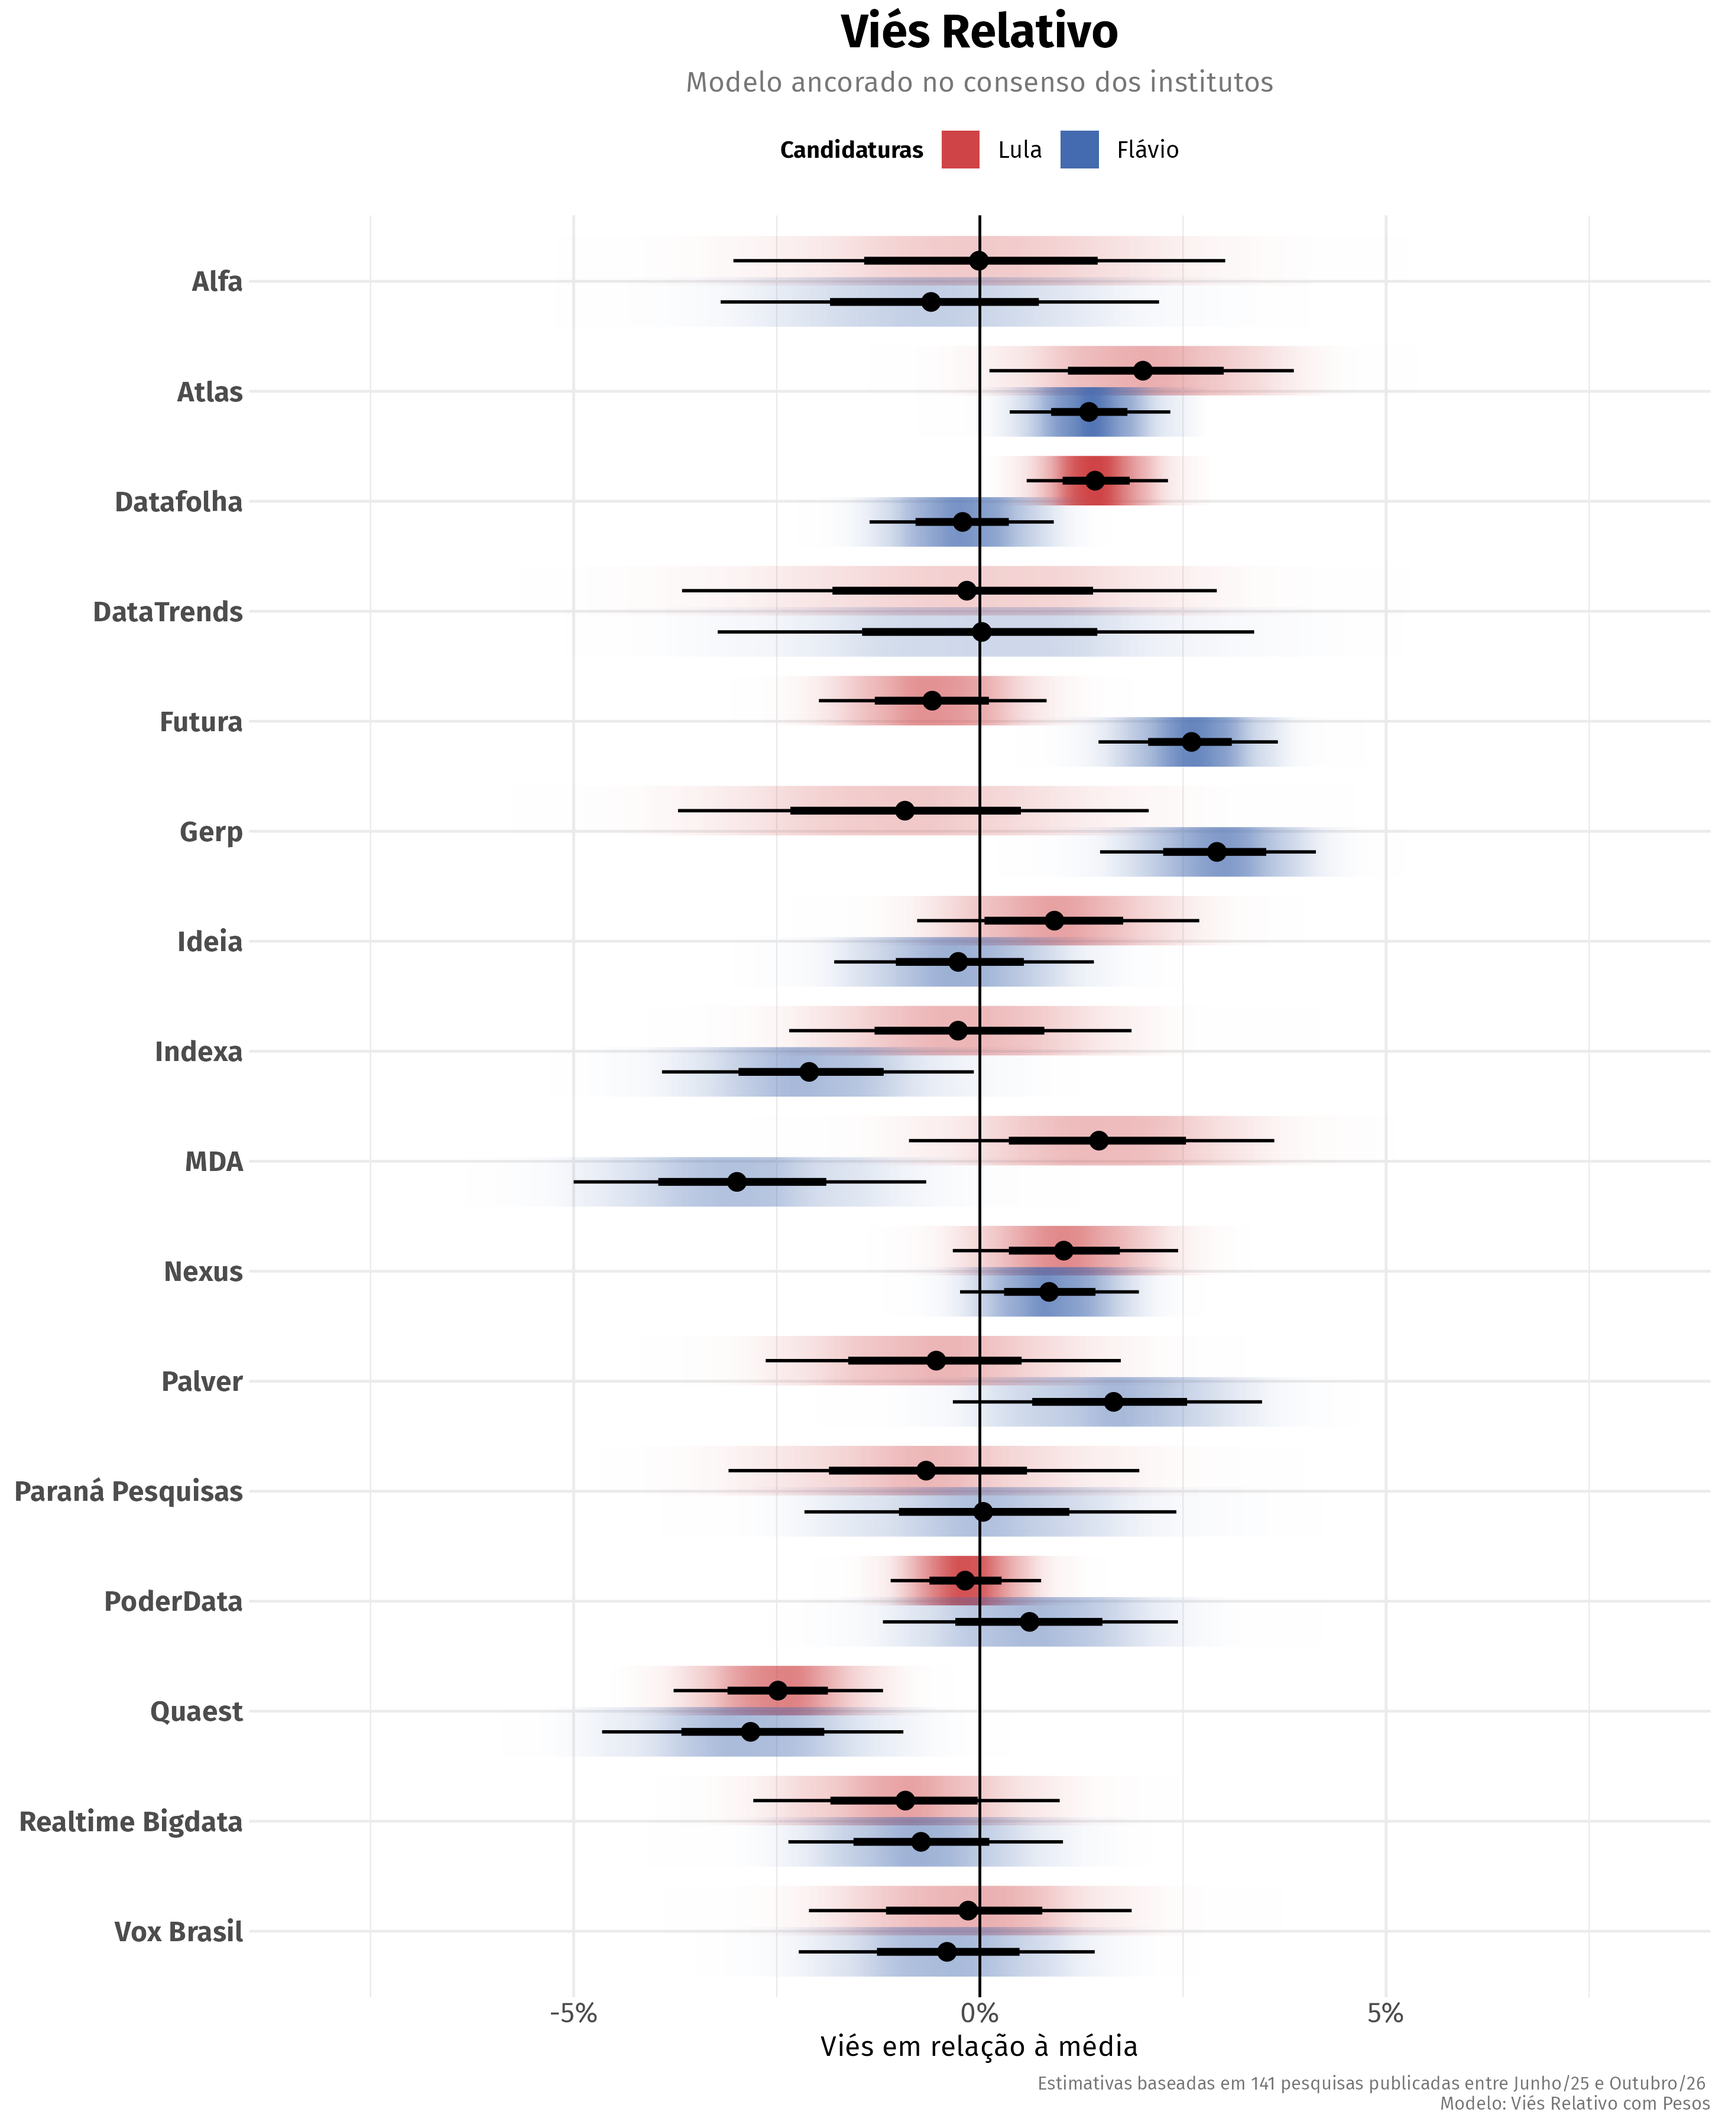
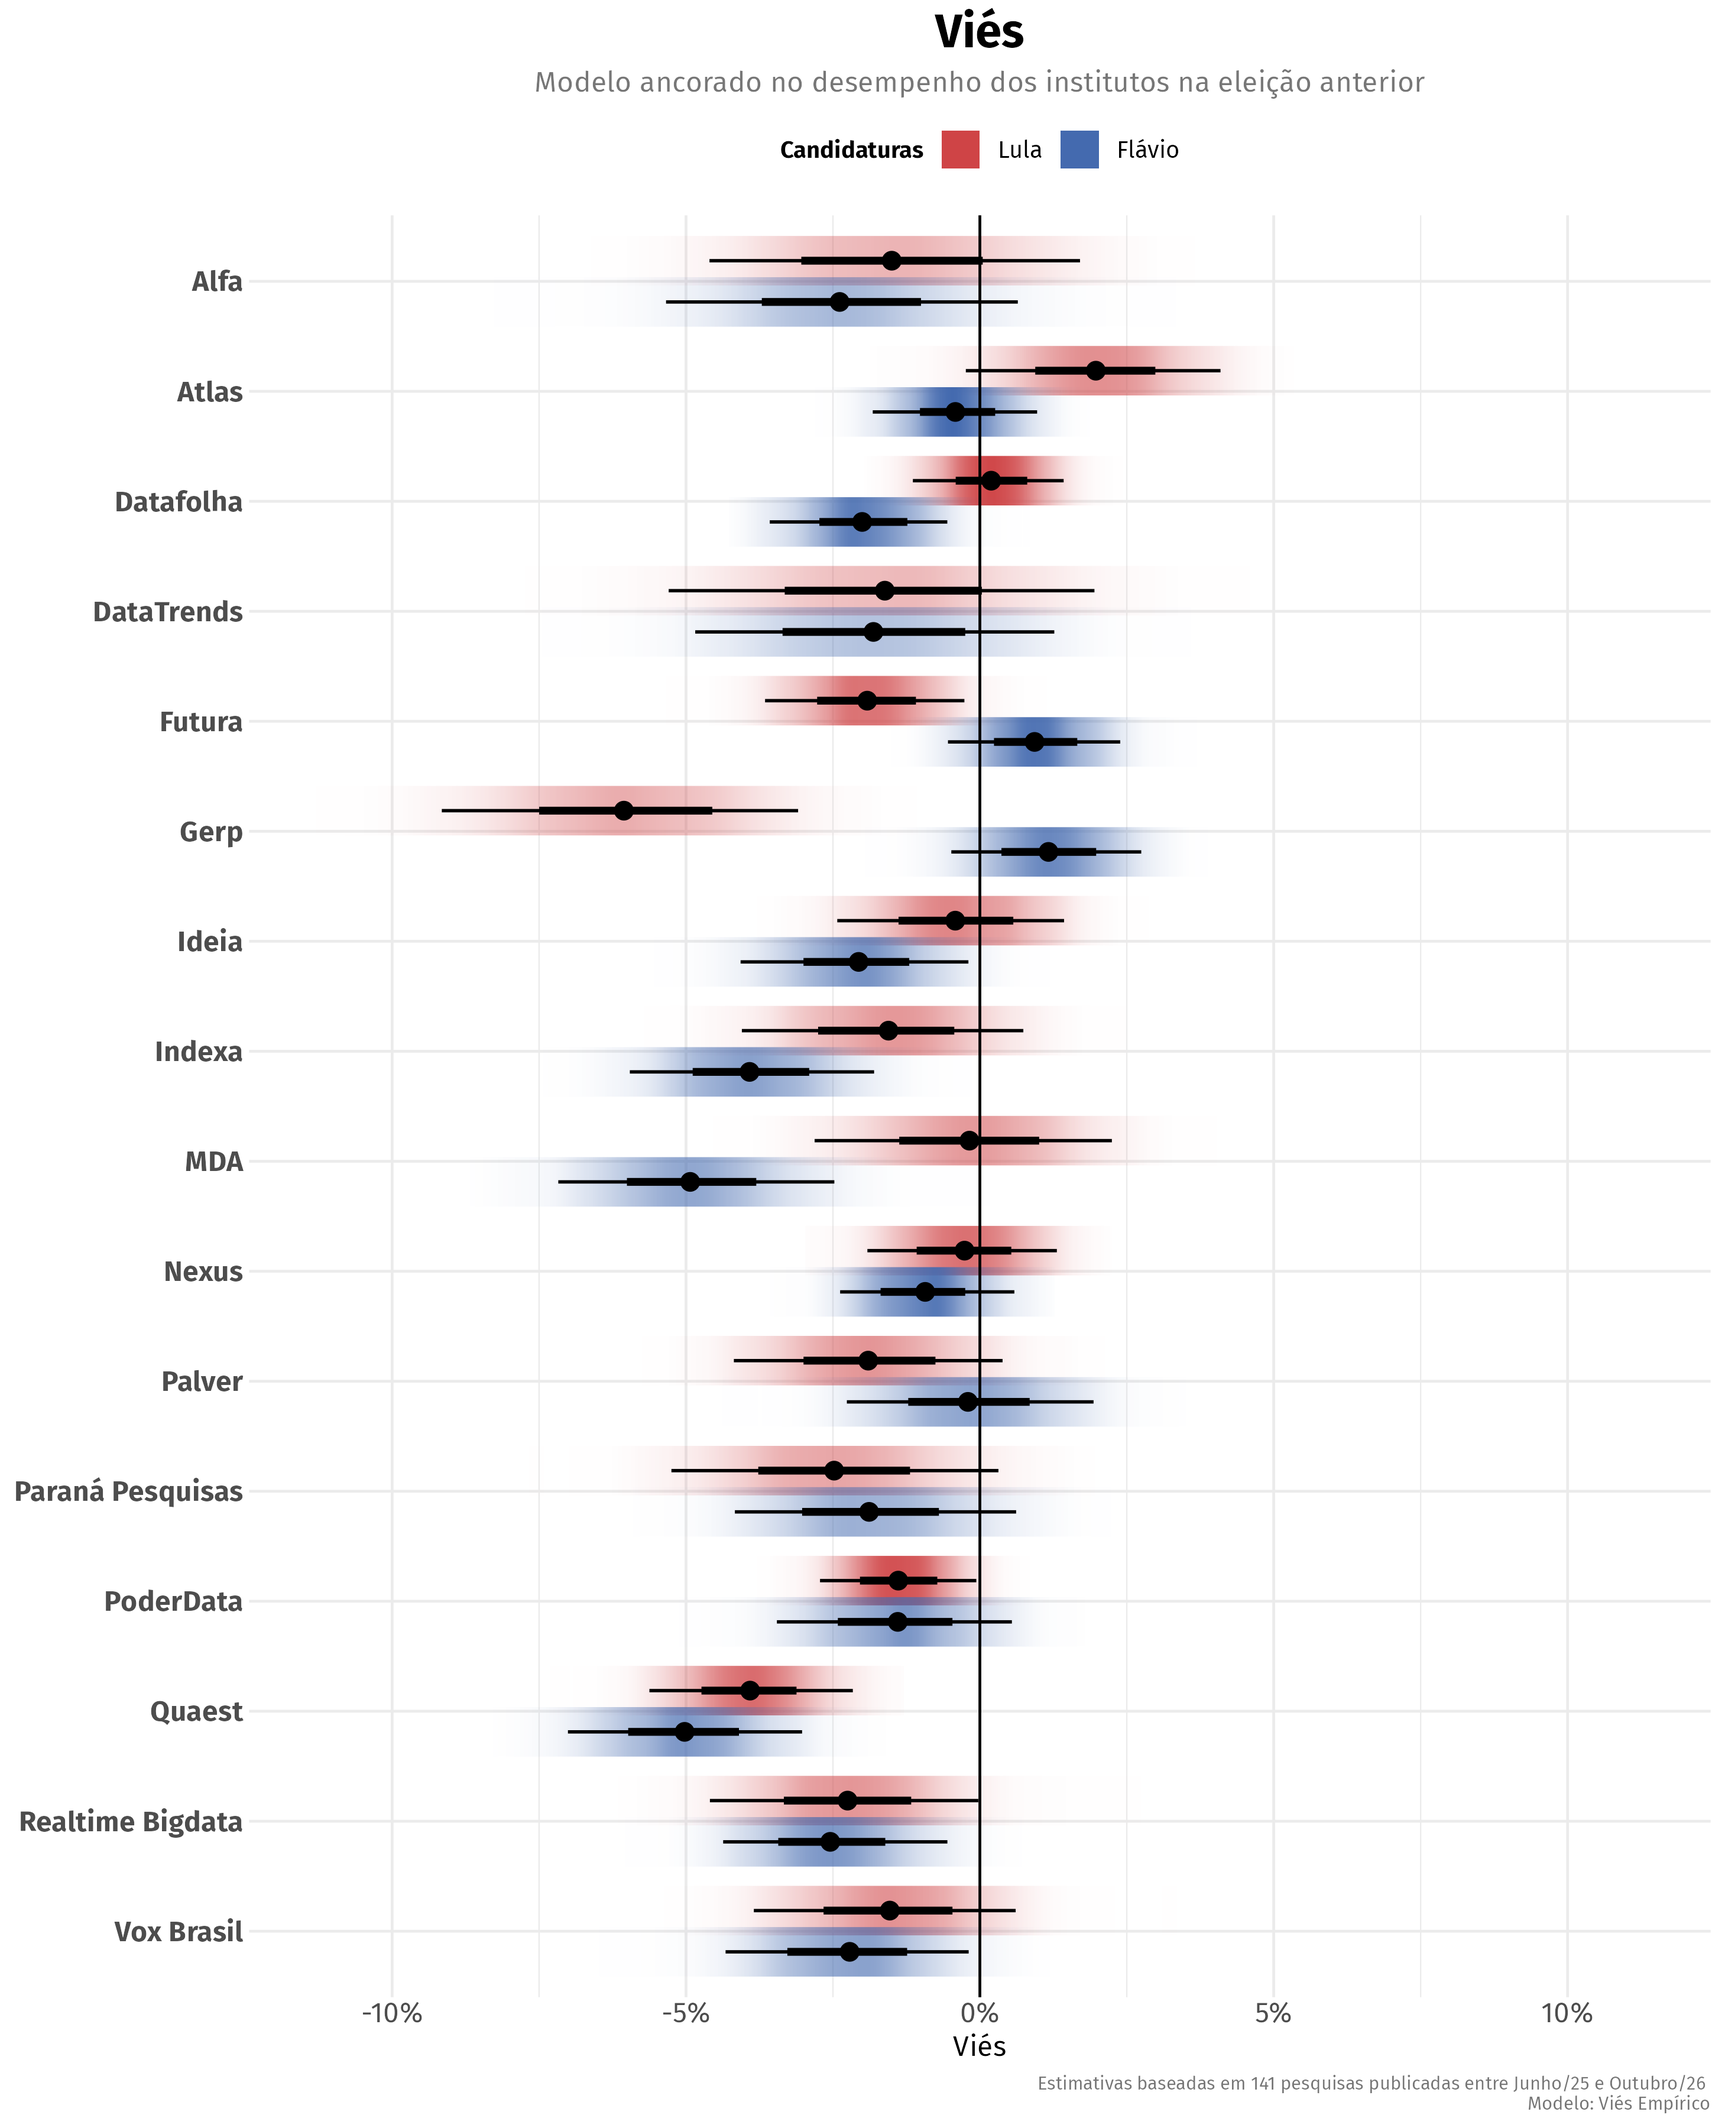
empirical bias results

diff --git a/README.md b/README.md
@@ -116,7 +116,7 @@ library(agregR)
 result <- rodar_agregador(data_inicio = "01/01/2025",
                           data_fim = "04/10/2026",
                           turno = 1,
-                          modelo = "Viés Relativo com Pesos")
+                          modelo = "Viés Empírico")
 
 # Daily voting estimates + poll data in tidy format
 result$votos_estimados
